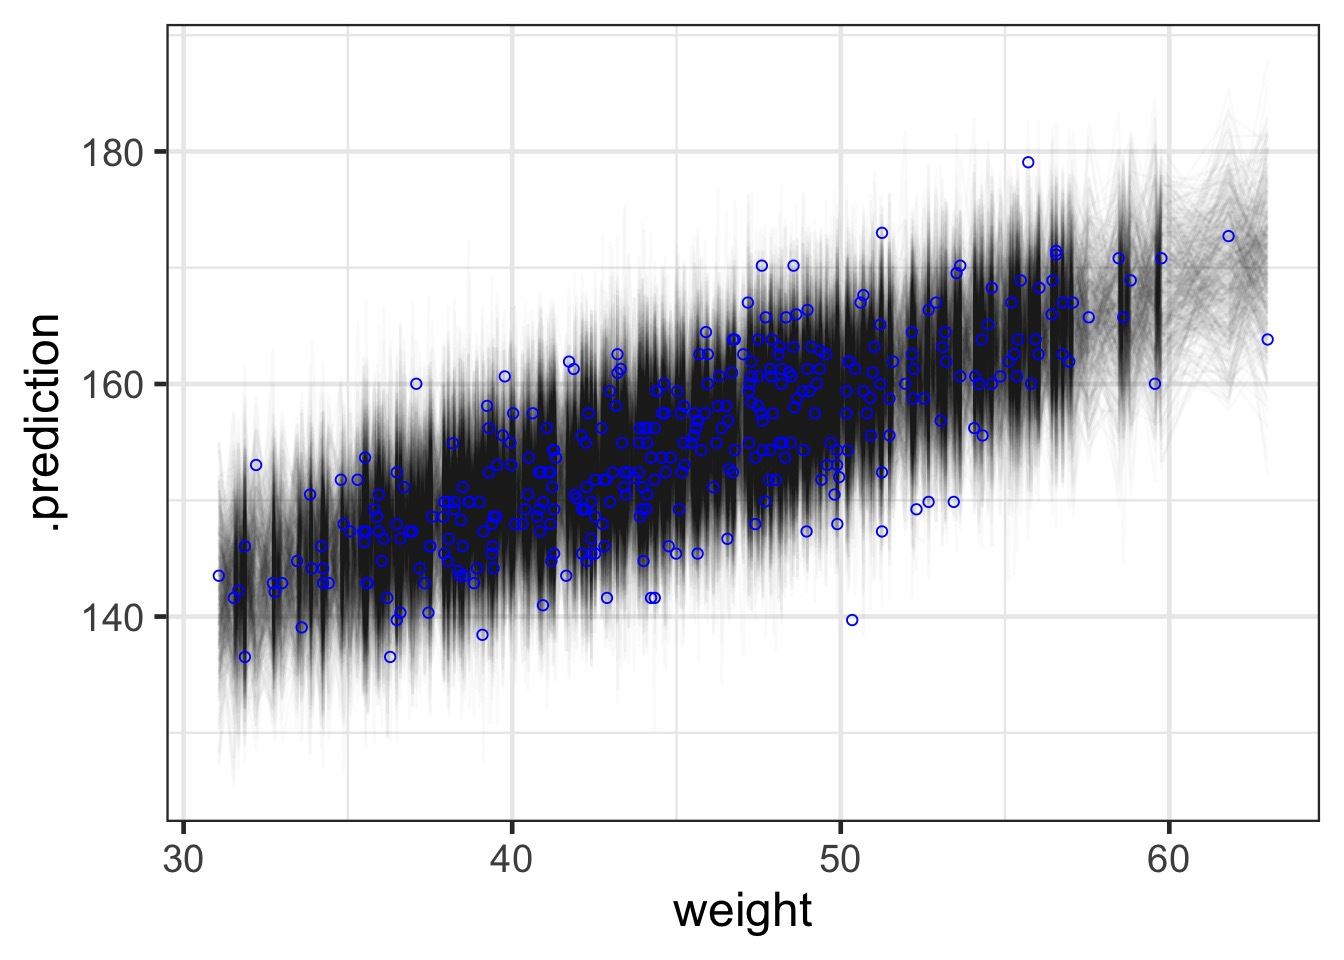
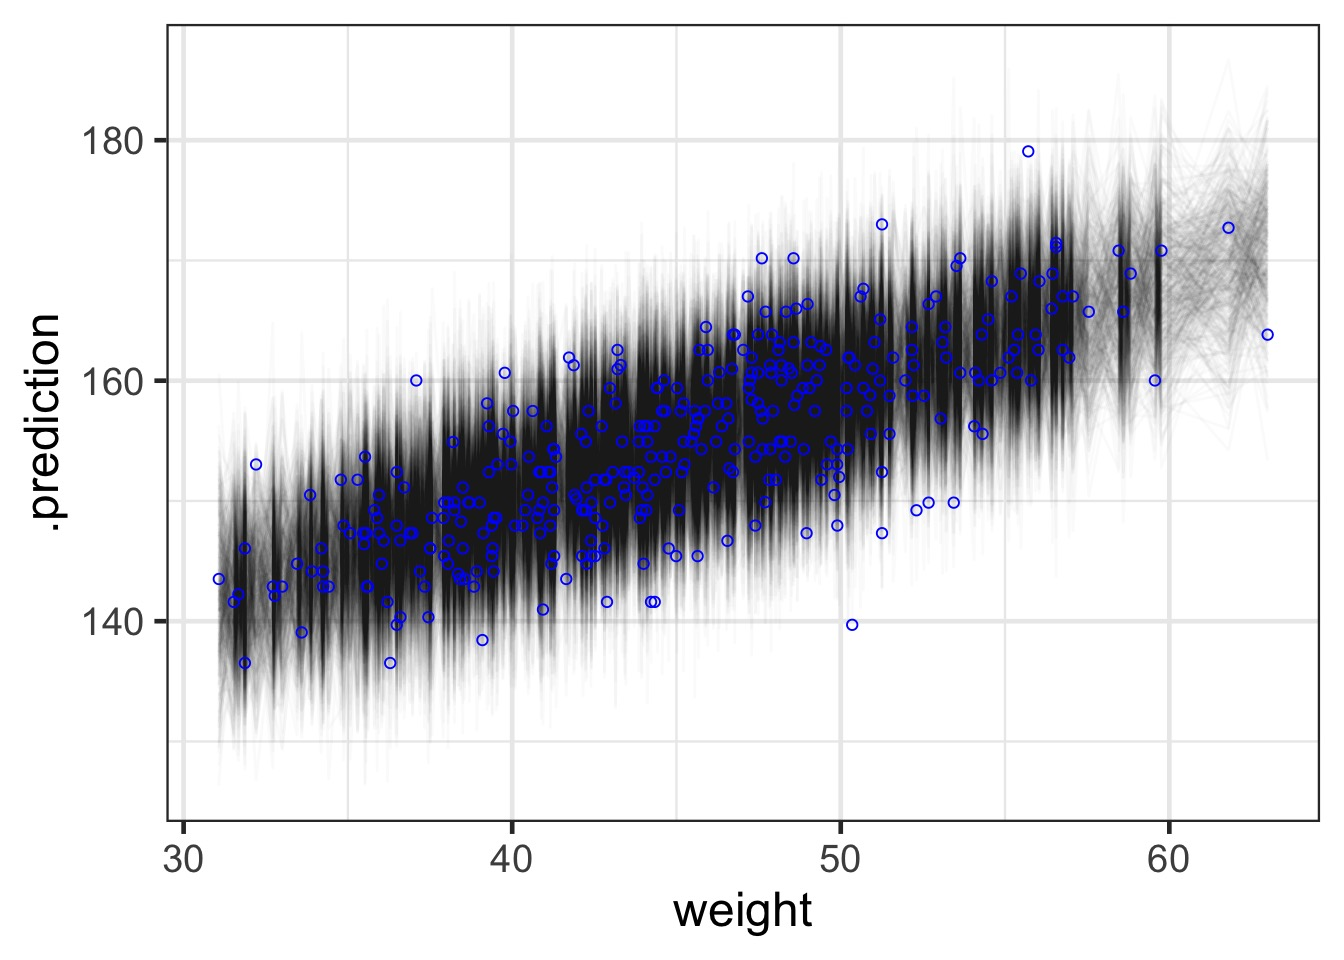
typo fix

diff --git a/lectures/linear_models.html b/lectures/linear_models.html
@@ -904,10 +904,10 @@ sigma   5.0718827 0.19115492   4.76638   5.3773852</code></pre>
    &lt;dbl&gt;  &lt;dbl&gt; &lt;dbl&gt; &lt;int&gt; &lt;int&gt; &lt;int&gt;  &lt;dbl&gt;
 1   152.   47.8    63     1     1     1   157.
 2   152.   47.8    63     1     1     2   157.
-3   152.   47.8    63     1     1     3   157.
+3   152.   47.8    63     1     1     3   158.
 4   152.   47.8    63     1     1     4   157.
 5   152.   47.8    63     1     1     5   157.
-6   152.   47.8    63     1     1     6   158.</code></pre>
+6   152.   47.8    63     1     1     6   157.</code></pre>
 </div>
 </div>
 </section>
@@ -1007,12 +1007,12 @@ sigma   5.0718827 0.19115492   4.76638   5.3773852</code></pre>
 <pre><code># A tibble: 6 × 6
   .chain .iteration .draw alpha  beta sigma
    &lt;int&gt;      &lt;int&gt; &lt;int&gt; &lt;dbl&gt; &lt;dbl&gt; &lt;dbl&gt;
-1     NA         NA     1  154. 0.855  5.19
-2     NA         NA     2  154. 0.965  4.84
-3     NA         NA     3  155. 0.914  4.68
-4     NA         NA     4  155. 0.961  5.08
-5     NA         NA     5  155. 0.896  5.36
-6     NA         NA     6  154. 0.868  5.21</code></pre>
+1     NA         NA     1  154. 0.915  5.12
+2     NA         NA     2  154. 0.918  5.06
+3     NA         NA     3  155. 0.913  4.82
+4     NA         NA     4  154. 0.842  4.67
+5     NA         NA     5  155. 0.896  4.93
+6     NA         NA     6  155. 0.819  4.92</code></pre>
 </div>
 </div>
 </section>
@@ -1161,7 +1161,7 @@ sigma   5.0718827 0.19115492   4.76638   5.3773852</code></pre>
 <p>Data Generating Process<br>
 <span class="math inline">\(\mu_i = \alpha + \beta_1 x_i + \beta_2 x_i^2 + \beta_3 x_i^3\)</span></p>
 <p>Prior:<br>
-<span class="math inline">\(\alpha \sim \mathcal{N}(150, 100)\)</span><br>
+<span class="math inline">\(\alpha \sim \mathcal{N}(150, 20)\)</span><br>
 <span class="math inline">\(\beta_j \sim \mathcal{N}(0, 10)\)</span><br>
 <span class="math inline">\(\sigma \sim \mathcal{U}(0,50)\)</span></p>
 </section>
@@ -1210,12 +1210,12 @@ sigma   5.0718827 0.19115492   4.76638   5.3773852</code></pre>
 <pre><code># A tibble: 6 × 6
       alpha     beta1     beta2     beta3     sigma  draw
   &lt;dbl[1d]&gt; &lt;dbl[1d]&gt; &lt;dbl[1d]&gt; &lt;dbl[1d]&gt; &lt;dbl[1d]&gt; &lt;int&gt;
-1     178.      7.22       6.60     -1.00     34.5      1
-2     177.    -11.7       -1.38     18.1      23.9      2
-3     148.     23.9       -6.03      7.11     48.6      3
-4      39.8     7.46      -4.70     -2.27     47.0      4
-5     350.      0.175    -18.0      14.9       4.82     5
-6     156.    -13.1       10.6      -9.73     48.5      6</code></pre>
+1      91.7    10.3       4.30     -0.299     46.0      1
+2     269.     21.6      -2.89     15.5       25.8      2
+3     153.      0.101    -0.974     5.86      14.2      3
+4     168.    -18.6       2.71     -9.56      43.1      4
+5     183.      2.56     -2.95    -14.1       14.0      5
+6     198.    -12.2      -9.10     -5.33       7.90     6</code></pre>
 </div>
 </div>
 </section>
